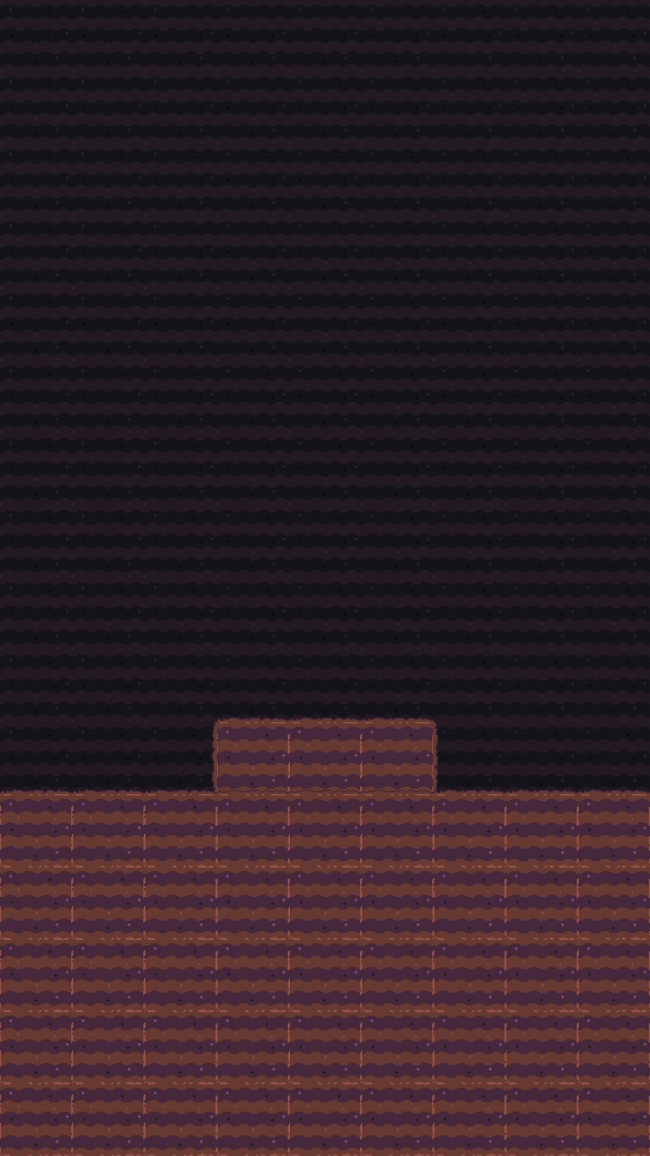
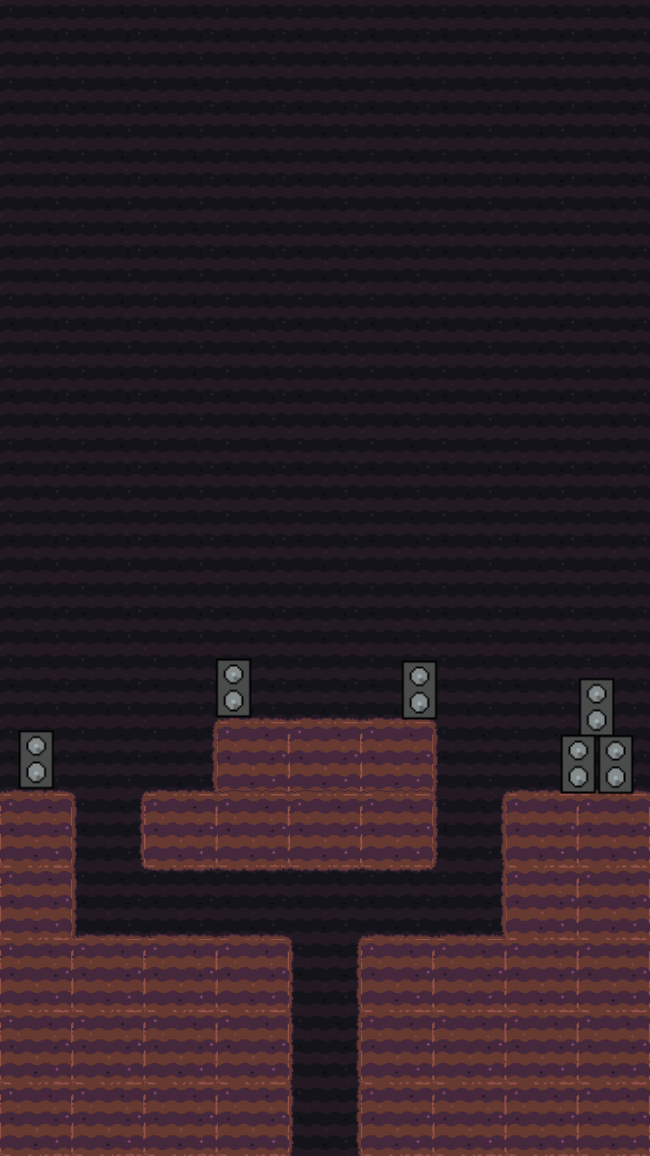
nicer set in and out transition

diff --git a/src/undergroundSet.ts b/src/undergroundSet.ts
@@ -31,6 +31,7 @@ const UNDERGROUND_CONFIG = {
 };
 
 export class UndergroundSet extends Scene {
+  private background!: Actor;
   private drummer: Actor | undefined;
   private guitarist: Actor | undefined;
   private bassist: Actor | undefined;
@@ -47,15 +48,19 @@ export class UndergroundSet extends Scene {
 
   onInitialize(engine: Engine) {
     this.camera.pos = vec(0, 0);
-    const background = new Actor({
+    this.background = new Actor({
       x: 0,
       y: 0,
       width: engine.drawWidth,
       height: engine.drawHeight,
       anchor: vec(0, 0),
     });
-    background.graphics.add(Resources.UndergroundSet.toSprite());
-    this.add(background);
+    this.background.graphics.add(Resources.UndergroundSet.toSprite());
+    this.background.graphics.add(
+      "instruments",
+      Resources.UndergroundSetInstruments.toSprite()
+    );
+    this.add(this.background);
 
     const spawnPos = engine.screenToWorldCoordinates(
       vec(this.playerScreenPos.x, 0)
@@ -185,6 +190,8 @@ export class UndergroundSet extends Scene {
   }
 
   swapToBand() {
+    this.background.graphics.hide("instruments");
+
     this.remove(this.bassist!);
     this.remove(this.guitarist!);
     this.remove(this.vocalist!);

diff --git a/src/resources.ts b/src/resources.ts
@@ -27,6 +27,7 @@ import chuChuMp3 from "./sound/chuchu.mp3";
 import chuChuWav from "./sound/chuchu.wav";
 import beetle from "./images/beetle.png";
 import undergroundSet from "./images/underground_set.png";
+import undergroundSetInstruments from "./images/underground_set_instruments.png";
 
 import drummerMeerkatFrontFacing from "./images/meerkat_1_front-facing.png";
 import vocalistMeerkatFrontFacing from "./images/meerkat_2_front-facing.png";
@@ -62,6 +63,9 @@ let Resources = {
   ChuChu: new Sound(chuChuMp3, chuChuWav),
   Beetle: new Graphics.ImageSource(beetle),
   UndergroundSet: new Graphics.ImageSource(undergroundSet),
+  UndergroundSetInstruments: new Graphics.ImageSource(
+    undergroundSetInstruments
+  ),
 
   // meerkatz
   MeerkatDrummerFrontFacing: new Graphics.ImageSource(
